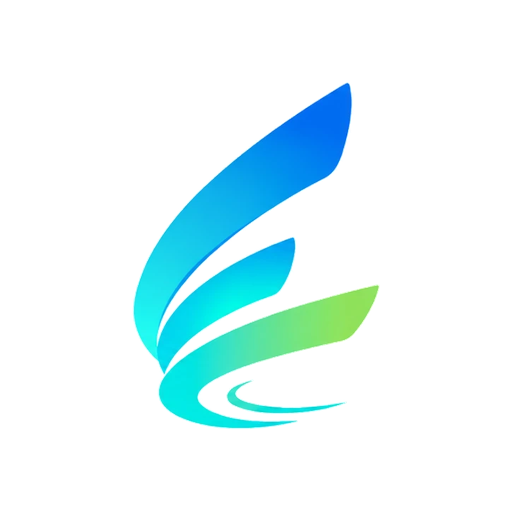
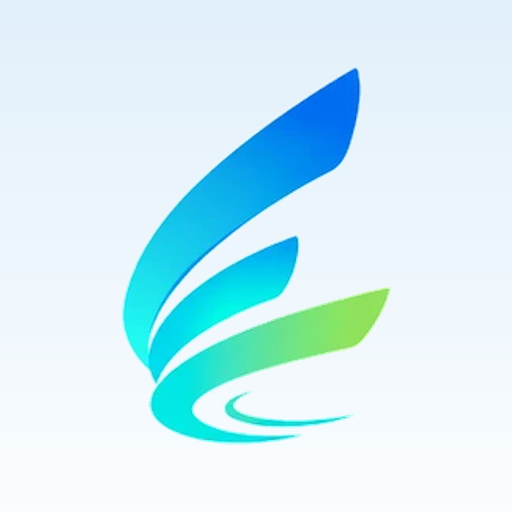
ホーム画面用アイコン: ロゴを大きくし、淡い青のグラデーション背景を付ける
Claude-Session: https://claude.ai/code/session_01GABYT29VUZzXrt2vySzu7C

diff --git a/src/pages.js b/src/pages.js
@@ -130,8 +130,8 @@ ${chrome ? DS_FONTS : TOP_FONTS}
 <link rel="icon" href="/favicon-48.png" sizes="48x48" type="image/png">
 <link rel="icon" href="/favicon-96.png" sizes="96x96" type="image/png">
 <link rel="icon" href="/favicon-32.png" sizes="32x32" type="image/png">
-<link rel="icon" href="/icon-192.png" sizes="192x192" type="image/png">
-<link rel="apple-touch-icon" href="/apple-touch-icon.png">
+<link rel="icon" href="/icon-192.png?v=2" sizes="192x192" type="image/png">
+<link rel="apple-touch-icon" href="/apple-touch-icon.png?v=2">
 <link rel="manifest" href="/manifest.json">
 <meta name="mobile-web-app-capable" content="yes">
 <meta name="apple-mobile-web-app-capable" content="yes">

diff --git a/public/sw.js b/public/sw.js
@@ -1,5 +1,5 @@
 // アプリシェルのキャッシュ + FCM(Web Push)の受信
-const CACHE = 'kiatsu-shell-v137';
+const CACHE = 'kiatsu-shell-v138';
 const API_OK = ['/api/week', '/api/forecast', '/api/area-stats', '/api/me', '/api/logs', '/api/areas', '/api/config', '/api/insights', '/api/today']; // オフラインでも前回の値を出すAPI(GETのみ)
 const SHELL = ['/app/', '/tokens.css', '/style.css', '/ds.css', '/header.css', '/brand.css', '/dash.css', '/app.js', '/wx.js', '/faces.js', '/manifest.json', '/offline', '/pwa.js', '/terms.html', '/hero/hero.js', '/hero/hero.css', '/vendor/chart.js'];
 
